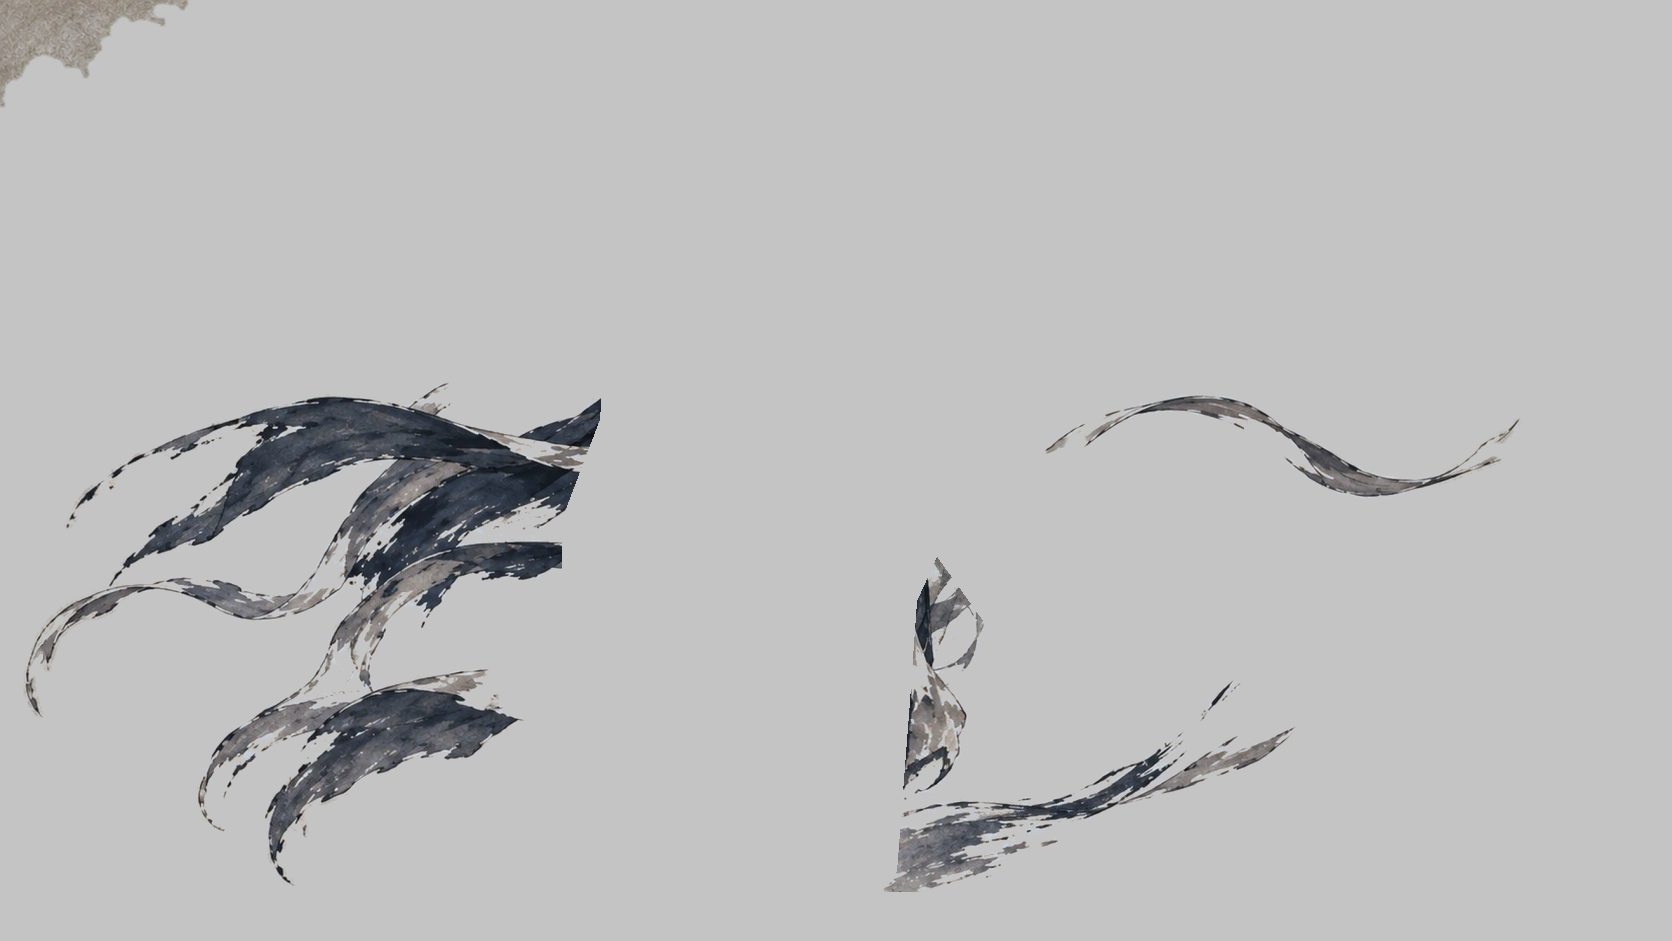
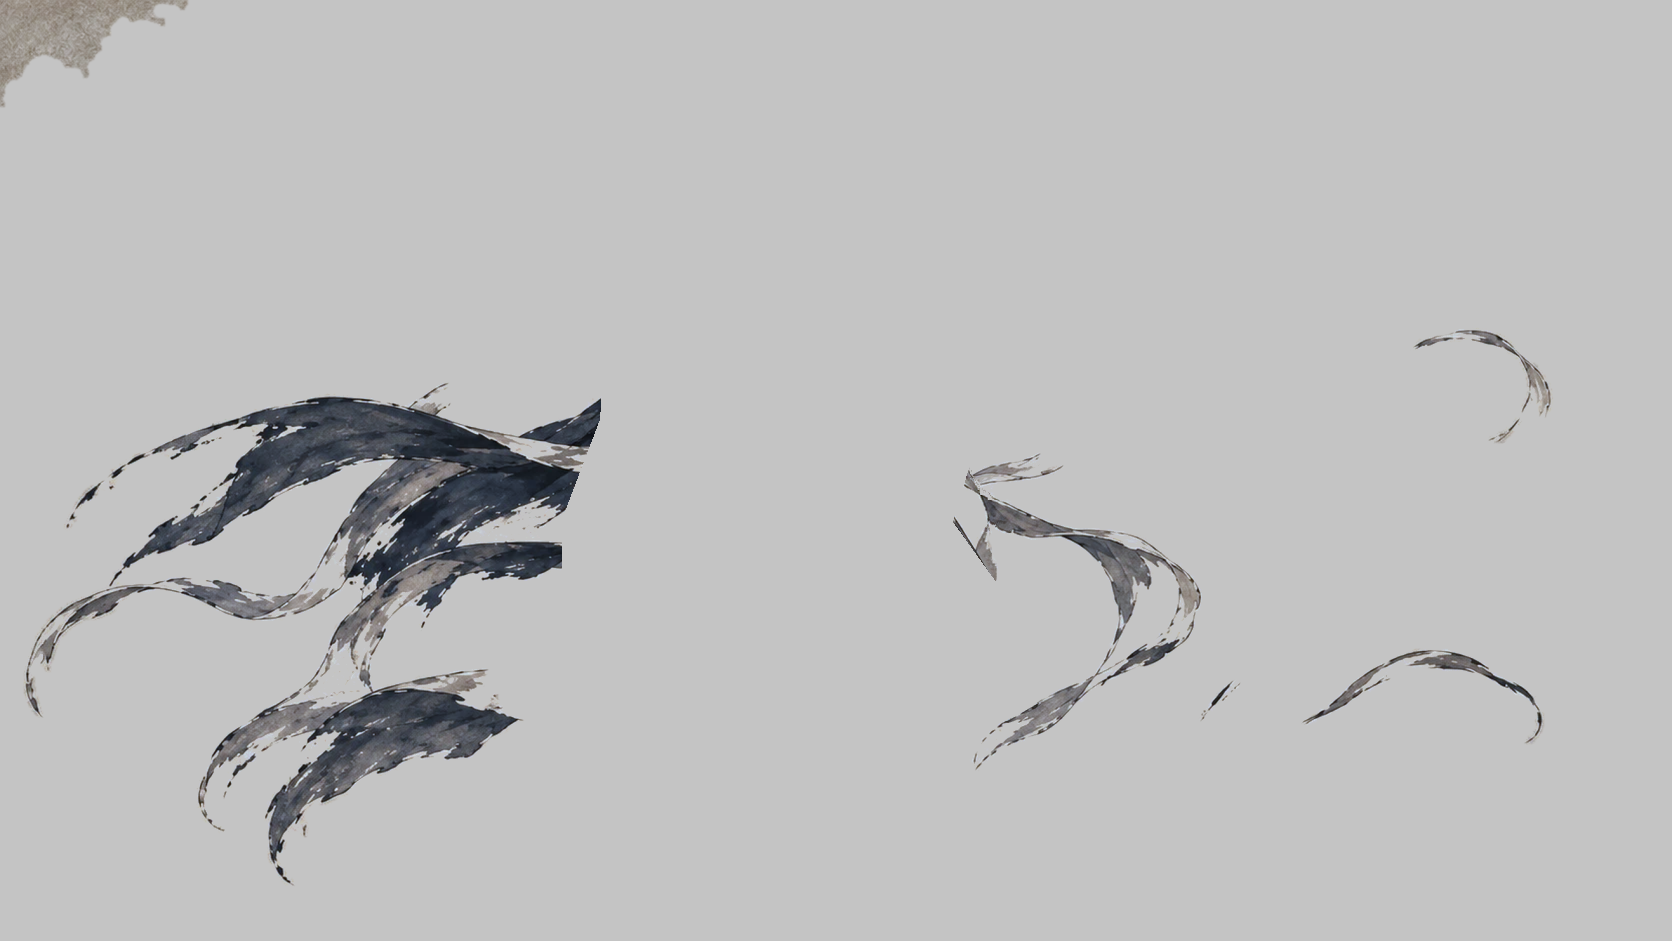
CAST PERFORMANCE TESTS v2: REPORT-v2, README; ground fade for the strands, tightened mask layer, base fixes
Claude-Session: https://claude.ai/code/session_0165shiXnXe7sWDC99zfjk7S

diff --git a/flagship-v2/cast-performance-test-v2/remotion/src/Untouchable2.tsx b/flagship-v2/cast-performance-test-v2/remotion/src/Untouchable2.tsx
@@ -30,7 +30,7 @@ const VS = `attribute vec2 p; varying vec2 uv; void main(){ uv = vec2(p.x*.5+.5,
 const FS = `precision highp float;
 uniform sampler2D plate, core, paperT, T0, T1, T2, F0, F1, F2;
 uniform vec4 SP[${N}]; uniform vec4 SQ[${N}];
-uniform vec2 size, nsize, moon, par; uniform float t, amp, reveal, wind, sweep;
+uniform vec2 size, nsize, moon, par; uniform float t, amp, reveal, wind, sweep, groundY;
 varying vec2 uv;
 float hash(vec2 p){ return fract(sin(dot(p, vec2(127.1, 311.7))) * 43758.5453); }
 float noise(vec2 p){ vec2 i = floor(p), f = fract(p); f = f*f*(3.-2.*f);
@@ -53,6 +53,7 @@ vec2 disp(vec4 f){
   float a = P.x * amp * pow(s, 1.6) * wind;
   vec2 d = nr * a * (0.6*w1 + 0.22*w2 + 0.42*sw) + tg * a * 0.16 * sin(TAU*0.5*P.y*tt + 1.3 + P.w);
   d += par * Q.y * s;                                     // a little depth against the camera
+  d *= clamp((groundY - uv.y*nsize.y) / 60., 0., 1.);    // nothing moves at the ground: motion fades out above it
   return d;                                              // native px
 }
 vec3 layer(sampler2D T, sampler2D F){
@@ -127,7 +128,7 @@ const StrandGL: React.FC<{ t: number; amp: number; reveal: number; wind: number;
     const U = (n: string) => gl.getUniformLocation(prog, n);
     gl.viewport(0, 0, CW, CH);
     gl.uniform2f(U('size'), CW, CH); gl.uniform2f(U('nsize'), NW, NH); gl.uniform2f(U('moon'), MOON[0], MOON[1]); gl.uniform2f(U('par'), par[0], par[1]);
-    gl.uniform1f(U('t'), t); gl.uniform1f(U('amp'), amp); gl.uniform1f(U('reveal'), reveal); gl.uniform1f(U('wind'), wind); gl.uniform1f(U('sweep'), sweep);
+    gl.uniform1f(U('t'), t); gl.uniform1f(U('amp'), amp); gl.uniform1f(U('reveal'), reveal); gl.uniform1f(U('wind'), wind); gl.uniform1f(U('sweep'), sweep); gl.uniform1f(U('groundY'), (meta as { ground_y?: number }).ground_y ?? 905);
     gl.drawArrays(gl.TRIANGLE_STRIP, 0, 4);
     gl.finish();
   });

diff --git a/flagship-v2/cast-performance-test-v2/tools/prep_un_strands.py b/flagship-v2/cast-performance-test-v2/tools/prep_un_strands.py
@@ -49,7 +49,8 @@ body = np.zeros((h, w), np.uint8); cv2.fillPoly(body, [BODY], 1)
 cv2.line(body, (832, 382), (1040, 672), 1, 24)                      # the sheathed sword
 static = body.copy()
 cv2.circle(static, (888, 158), 182, 1, -1)                          # the ink moon (sky, not cloth)
-static[896:] = 1                                                    # the ground
+# the ground is NOT a hard static boundary (a hem tatter crossing it would tear): strands may run into it, and the
+# shader fades every displacement to zero over the 60 px above the ground line (GROUND_Y)
 static_d = cv2.dilate(static, cv2.getStructuringElement(cv2.MORPH_ELLIPSE, (9, 9)))
 
 # ---------------------------------------------------------------- strands: ink components in the free region
@@ -177,7 +178,7 @@ inkF = np.clip(d_full / 22, 0, 1)
 a_core = np.clip(a_core * np.maximum(inkF, cv2.erode(bodyF, np.ones((31, 31), np.uint8)).astype(np.float32)), 0, 1)
 Image.fromarray(np.dstack([hyb_full.clip(0, 255).astype(np.uint8), (a_core * 255).astype(np.uint8)])).save(f'{OUT}/un-core.png')
 
-json.dump(dict(native=[w, h], canvas=[CW, CH], scale_native_per_canvas=SC, strands=strands, body=BODY.tolist()), open(f'{OUT}/un-strands.json', 'w'), indent=1)
+json.dump(dict(ground_y=905, native=[w, h], canvas=[CW, CH], scale_native_per_canvas=SC, strands=strands, body=BODY.tolist()), open(f'{OUT}/un-strands.json', 'w'), indent=1)
 
 # ---------------------------------------------------------------- visualisations
 rc = np.random.default_rng(1).uniform(40, 255, (len(strands) + 1, 3)); rc[0] = 0

diff --git a/flagship-v2/cast-performance-test-v2/tools/sheets.py b/flagship-v2/cast-performance-test-v2/tools/sheets.py
@@ -22,12 +22,14 @@ INK, PAPER = (22, 19, 15), (242, 236, 224)
 def font(s):
     try: return ImageFont.truetype('/usr/share/fonts/truetype/dejavu/DejaVuSans.ttf', s)
     except OSError: return ImageFont.load_default()
+import atexit, shutil
 _cache = {}
-def frames(mp4):
+def frames(mp4):   # every frame as a high-quality JPEG in a temp dir, removed at exit (full PNG dumps filled the disk)
     if mp4 in _cache: return _cache[mp4]
-    d = tempfile.mkdtemp(); subprocess.run(['ffmpeg', '-v', 'error', '-i', mp4, f'{d}/%04d.png'], check=True)
+    d = tempfile.mkdtemp(); atexit.register(shutil.rmtree, d, True)
+    subprocess.run(['ffmpeg', '-v', 'error', '-i', mp4, '-q:v', '2', f'{d}/%04d.jpg'], check=True)
     _cache[mp4] = (d, len(os.listdir(d))); return _cache[mp4]
-def fr(d, i): return Image.open(f'{d}/{i + 1:04d}.png').convert('RGB')
+def fr(d, i): return Image.open(f'{d}/{i + 1:04d}.jpg').convert('RGB')
 def label(im, text, s=22):
     im = im.copy(); dr = ImageDraw.Draw(im); dr.rectangle([0, 0, im.width, s + 12], fill=INK); dr.text((8, 5), text, fill=PAPER, font=font(s)); return im
 def grid(tiles, cols, tw, th, title, caps=None, pad=6, top=60, cap_h=24):

diff --git a/flagship-v2/cast-performance-test-v2/REPORT-v2.md b/flagship-v2/cast-performance-test-v2/REPORT-v2.md
@@ -1,0 +1,272 @@
+# Cast performance tests v2: Cold Blooded's mask, Untouchable's ribbons
+
+**Status: for owner review.** This is a new folder beside v1 (`../cast-performance-test/`, untouched). Nothing is
+integrated into the flagship and nothing is merged or published. This session can only push to
+`claude/nice-cerf-yokee2`; I checked it was current and clean before starting.
+
+## The short answer
+
+| | verdict |
+|---|---|
+| **Cold Blooded** | **The gesture now works.** The mask rises from his chest and covers his face in one continuous movement, with no double face, duplicated mask or floating hand. The method that achieves it is the *concealed* one (B). The registered masked cut (A) is clean but snaps. **No third painting is needed for the close-up gesture.** One is needed only if you want the lift seen in a full-figure wide (§1.5) |
+| **Untouchable** | **Substantially better than v1.** She's built from the sharp portrait figure on the approved landscape. The 17 major ribbons, hair ends and hem tatters are separated layers that each move on their own wind, behind a body that stays still. The v1 grey edge smudges are gone. **Flagship-worthy.** What still separates this from "impossible grace" is listed in §2.6 |
+
+---
+
+## 1. Cold Blooded
+
+### 1.1 The two paintings (`cold-blooded-v2-pose-registration.jpg`)
+
+B (mask raised) registers onto A (mask lowered) with a similarity transform: B is drawn **3% larger** (scale
+0.969), rotated −0.47°, with 430 SIFT inliers and a 1.30 px median residual. After registration:
+
+| region | flow median / p90 (px) | |
+|---|---|---|
+| fur collar, chest cords and medallion, sash, lower robe, left hand and sleeve | 1.6–3.1 / 4–15 | **the same drawing**, re-rendered texture |
+| face and head | 5.7 / 60 | the head is **bowed further** in B (chin lower, toward the chest) |
+| hair, bun, pin | 10.5 / 18 | the hair is redrawn around the bow |
+| mask, hand, forearm | 22–61 / 110–140 | **the gesture**: the mask centre travels 320 px up and 45 px left; the forearm translates almost rigidly |
+| right sleeve | 40 / 98 | B's sleeve falls back to the elbow and hangs from a raised arm; A's hangs from a lowered forearm |
+
+The change region is **37% of the figure** (Last Legend's was 27%). Costume continuity is good: the cords,
+medallion, sash pattern, fur and bamboo prints match. The face is the same man, with the same scar, but not the same
+head angle.
+
+### 1.2 What I tried, and what you'd see at speed (`cold-blooded-v2-method-ab.jpg`)
+
+**Method A: registered layered transition (`cold-blooded-v2-method-a-layered.mp4`).** The whole figure. A's own
+mask, hand and wrist rise 110 px as one rigid piece. Then the change region cuts to B on smear frames.
+- *Result:* clean, with no ghosting and no double mask, because one painting is visible per frame inside the region.
+- *But* the last 210 px of the travel happens in one frame. At speed it reads as **a snap**: the mask jumps to the
+  face. It's exactly the limitation predicted for two keys, now demonstrated.
+- Pushing the rigid rise further isn't possible. A's forearm ends inside its sleeve, so lifting it more than ~110 px
+  uncovers a forearm that was never painted (the "floating hand").
+
+**Method B: concealed (chosen; `cold-blooded-v2-cinematic.mp4`, `cold-blooded-v2-trailer.mp4`).**
+1. Medium on his face and the lowered mask. The loss reaches the world, then him (grey), and he is still.
+2. The camera tilts up to his face as **his own hand starts to rise**: A's mask, hand and wrist as one rigid piece.
+   Its wrist end is below the frame.
+3. **Mid-rise the rising hand becomes B's** (mask, hand and forearm as one piece, cut from B), at exactly the same
+   mask centre. Both carry motion blur proportional to their speed, so the swap frame looks like every other frame.
+   At that moment A's chest below the collar gives way to B's (consistent with a raised arm). It's at the bottom
+   edge of the frame, and the two chests are the same drawing to ~2–3 px.
+4. B's mask keeps rising, decelerating, **over A's face**. His expression disappears behind it: first the eye, then
+   the cheek. This is the emotional centre, and it's real motion of the painted mask over the painted face.
+5. **The head settles into the mask**: a cut to all-B under a 0.6% rigid sink and a single light smear frame. Because
+   B's head is bowed a little lower, this reads as him lowering his face into the mask, not as an edit.
+6. The camera eases back to the whole painting while the loss grey deepens.
+
+Timing (cinematic, 6.2 s):
+
+| time | beat |
+|---|---|
+| 0–2.05 s | pause, outcome registers |
+| 2.05–3.5 s | the rise (1.45 s, deliberate, slow in and slow out) |
+| 3.5–3.7 s | the completed gesture held |
+| 3.7 s | the settle |
+| 3.7–6.2 s | the wash, pulling back to the whole painting |
+
+The trailer is 7 beats (2.39 s): the rise takes 0.9 s, the grey 敗 stamps on beat 5, and `−80 USDC` is marked
+`PROVISIONAL`.
+
+**Why B is better at normal speed:** the mask is never still in a way that exposes the swap. It travels one
+continuous path, at one speed profile, from chest to face. A snaps.
+
+### 1.3 Quality control (`cold-blooded-v2-transition-frames.jpg`: every 3rd frame of the lift, every frame of the swap and the settle)
+
+- **No double face.** An earlier pass carried a sliver of B's chin under the moving mask (f156–158). I tightened the
+  layer to the mask's lower edge; it's gone in the final render.
+- **No duplicated mask.** A's mask and hand are removed from every base that's visible while B's mask moves.
+- **No floating hand.** The rising forearm always runs into the sleeve or off the bottom of the frame. Both moving
+  layers fade into identical pixels in the base, so there is no cut edge.
+- **No sleeve distortion.** Nothing is warped. Every move is a rigid translation plus at most 5° of rotation of the
+  mask/hand piece.
+- **What a careful viewer could notice:**
+  1. The mask turns slightly (5°) as it rises. This covers the angle difference between the two paintings' masks.
+  2. Through the swap (f154–160) the mask is motion-blurred. It's consistent with its speed, but softer than the
+     sharp hold either side.
+  3. In the close-up the paintings are shown at ~1.7× upscale (they arrived at 1086×1448), so the face hold is soft
+     compared with the wide.
+  4. The base below the collar changes from A's chest to B's chest at the swap. The two drawings agree to ~2–3 px
+     there, but the fold texture is re-rendered.
+
+### 1.4 Recommendation
+
+Use **method B**, cinematic or trailer. **It makes a small gesture enormous**, because the camera is close enough
+that the mask covering his face *is* the shot.
+
+### 1.5 Is a third illustration necessary?
+
+**Not for this shot.** The concealed method gives a continuous rise without it, and I've demonstrated that rather
+than assumed it.
+
+A third painting is needed **only for a wide shot where the whole arm is seen rising**. Method A shows why: two keys
+in a wide either snap (210 px in one frame) or expose an unpainted forearm. If you want that wide, the brief is:
+- **"mask at the chin"**: the same canvas and body as both paintings;
+- the forearm raised halfway, hand at the collar, the mask covering the mouth and chin;
+- eyes still visible, looking down; the sleeve sliding toward the elbow.
+
+The full-resolution files would also sharpen the close-up.
+
+---
+
+## 2. Untouchable
+
+### 2.1 The new landscape vs the approved portrait (`untouchable-v2-source-comparison.jpg`)
+
+The landscape is **not** an extension of the portrait. It's a regeneration:
+- **Scale:** the figure is drawn at **0.635×** the portrait's scale (rotation −0.67°, 347 SIFT inliers, 1.37 px
+  median).
+- **Where they agree** (registered at portrait scale): face and blindfold 2.6 px median, torso 2.6, hands and hilt
+  2.3, sword 4.5. **The pose, costume and face are the same character.**
+- **Where they differ:**
+  - the skirt from the knees down (6.5 px, rising);
+  - the feet (44 px);
+  - the moon (30 px, it's larger and shifted);
+  - **every ribbon and hair end** (46–93 px): completely redrawn, and longer, completed and fully inside the canvas.
+- **Resolution:** the landscape arrived at 1672×941. Its face is ~90 px wide. At 1080p in a 1.5× push that's a
+  **1.8× upscale: visibly soft**. The portrait's face is 1.6× more detailed.
+
+### 2.2 The choice: a hybrid, non-destructive
+
+I didn't sacrifice the face for the canvas, so the shot uses both paintings:
+- **The portrait** wherever the two agree: head to knees, sword and hands. That's 81% of the body, chosen per pixel
+  by measured agreement (low flow), never its paper or its moon.
+- **The landscape** for everything else: the ribbons, the legs and feet, the moon, and all the paper.
+- **The seam:** in an ~80 px band around the portrait region, the landscape is warped onto the portrait's geometry
+  (by the measured flow, ≤28 px). Strokes continue across it, and the 1:1 checks show no doubled strokes.
+- Both originals are untouched in `assets/source/`. The working canvas is the landscape at portrait scale
+  (2634×1483).
+
+### 2.3 Ribbon separation (`untouchable-v2-layer-separation.jpg`)
+
+- **17 strands**, each its own layer: the long ribbons left and right, the hair ends, the hem tatters, and small
+  ribbon fragments.
+- **How they were found:** connected ink, grouped by a wide closing so that a ribbon's cream stretches keep its
+  pieces together. The paper's own dark mottling is excluded, so it doesn't drift.
+- **Ink as transmittance.** Each layer stores ink as transmittance, so at rest the composite is the painting and
+  moved ink multiplies like ink.
+- **The paper behind** is the original wherever the ink was faint, and is inpainted from the surrounding paper where
+  real ink lifted off. Nothing pale or smudged shows when a ribbon moves.
+- **Roots and tips.** Each strand has a root (where it meets her body), a geodesic distance along itself (0 at the
+  root, 1 at the tip), and a local tangent.
+- **Groups.** The strands are split into three interleaved groups, so neighbours never share a motion field and
+  never clip each other.
+- **No ribbon passes through her.** Her body is a separate occluder drawn last, so no strand can cross the torso.
+  Strands that emerge from behind her stay behind her.
+
+### 2.4 The motion (`untouchable-v2-motion-map.jpg`, `untouchable-v1-vs-v2-ribbons.jpg`)
+
+Every strand bends with a wave travelling from root to tip, plus a slower second harmonic and a slow swing:
+- **Perpendicular to its own local direction**, so curved ribbons ripple along their curve.
+- **Growing as s^1.6:** still at the root, largest at the free end.
+- **Its own frequency, wavelength and phases** (long ribbons slower). A gust crosses the frame left to right, so
+  strands react in sequence, never in sync.
+- **A little parallax** against the camera, per strand depth.
+- **Amplitudes** 10–27 landscape px at the tips (≈12–30 screen px). The world's clock stops at the win.
+
+Measured on a locked camera over 1 s (temporal deviation; the paper grain alone is ≈2):
+
+| region | mean | p99 |
+|---|---|---|
+| face and blindfold | 1.99 | 2.9 |
+| torso | 1.97 | 3.0 |
+| hands on the hilt | 1.96 | 4.3 |
+| moon | 2.41 | 3.5 |
+| feet and ground | 1.91 | 3.0 |
+| left ribbons | 15.9 | 65 |
+| right ribbons | 7.3 | 52 |
+
+**She is pixel-still; only the strands move.**
+
+**v1 vs v2:**
+- v1 moved one displacement field over the portrait, with the ribbons ending in grey smoke where the portrait's
+  canvas stopped.
+- v2's ribbons are complete strokes from the landscape, move independently and travel further.
+
+### 2.5 The performance (`untouchable-v2-cinematic.mp4` 6.8 s, `untouchable-v2-trailer.mp4` 2.05 s)
+
+Kept from v1:
+- the ink bloom from the moon outward;
+- her absolute stillness;
+- the wind rising into a **freeze at the win** (0.55 s, a true dropout of every stem), with the amount rising in the
+  silence;
+- the slow push to the blindfold.
+
+New in v2:
+- a slow warm light sweep across the paper as the bloom completes;
+- a second, smaller gust earlier, so the big one has something to grow from;
+- per-strand parallax.
+
+**The payout is a prop** (`payout: { show, handle, amount, provisional }`). It is shown with a
+`PROVISIONAL · FIGURES TO BE VERIFIED` line and is not a final figure.
+
+`untouchable-v2-rigid-ab.mp4` is the same shot with the strands held still, for judging what the motion adds.
+
+### 2.6 Remaining limitations, candidly
+
+1. **Strands, not cloth simulation.** Each strand bends as a whole: perpendicular waves and swing, no folding, no
+   twist, no change of silhouette. It reads as ink breathing on a wind. A ribbon flipping over itself would need
+   painted layers per strand: a front and a back.
+2. **Ribbons painted across her body don't move**: the sash, the robe panels and the hem in front of her legs. They're
+   part of the static figure. So are the hair strands that overlap her head.
+3. **Large hem tatters are single strands.** Where the painting merges several tatters into one ink mass, they move
+   as one piece.
+4. **The ground fade.** Within 60 px of the ground, motion fades to zero. This stops the hem tearing where it meets
+   the ground, which an earlier pass did.
+5. **Seam band.** The portrait-to-landscape seam band is invisible at 1:1 in the checks. Over the knees, the
+   landscape's softer strokes meet the portrait's sharper ones; at 1080p the sharpness difference shows only on
+   close inspection.
+6. **Resolution.** Everything outside the portrait core is the landscape at 1.57× its pixel size: soft ribbons in
+   the close-up. The full-resolution landscape would fix this.
+7. **Dependencies.** No new ones: one WebGL pass with 9 textures, and an offline prep (OpenCV, scikit-image).
+
+**Asks that would take it further:**
+- the landscape at full resolution (≥3840 px wide);
+- optionally, **the free ribbons delivered as separate transparent layers** from the generator. That would give
+  clean edges where ribbons overlap each other, which my separation has to treat as one strand.
+
+---
+
+## 3. Deliverables (`deliverables/`)
+
+| file | what |
+|---|---|
+| `cold-blooded-v2-cinematic.mp4` / `-trailer.mp4` | method B, chosen (6.2 s / 2.39 s) |
+| `cold-blooded-v2-method-a-layered.mp4` | method A, for the A/B |
+| `cold-blooded-v2-method-ab.jpg` | A vs B at the same moments |
+| `cold-blooded-v2-pose-registration.jpg` | registration, change region, the gesture path, numbers |
+| `cold-blooded-v2-transition-frames.jpg` | every 3rd frame of the lift, every frame of the swap and the settle |
+| `cold-blooded-v2-layers.jpg` | the layers |
+| `untouchable-v2-cinematic.mp4` / `-trailer.mp4` | 6.8 s / 2.05 s |
+| `untouchable-v2-rigid-ab.mp4` | strands held still |
+| `untouchable-v1-vs-v2-ribbons.jpg` | v1 vs v2 at the same moments, and the left ribbons at 1:1 |
+| `untouchable-v2-layer-separation.jpg`, `untouchable-v2-motion-map.jpg`, `untouchable-v2-source-comparison.jpg` | separation, motion proof, portrait vs landscape |
+| `*-contact.jpg` | timed contact sheets for every cut |
+
+Audio: separate `music`, `sfx` and `mix` stems per cut in `audio/out/`. The music is the flagship's track, untouched
+excerpts on its bar grid; the SFX are synthesised placeholders. **Unauditioned.**
+
+QC method: I can't play video at normal speed. I inspected:
+- dense frame sheets of the encoded renders;
+- every frame through Cold Blooded's swap and settle;
+- 1:1 crops of the ribbon roots, tips and seams;
+- a locked-camera temporal-deviation map.
+
+I fixed three defects this way (B's chin sliver under the mask, a paper gap under the sleeve, the hem tearing at the
+ground) before the final renders.
+
+## 4. Rebuild
+
+```bash
+cd flagship-v2/cast-performance-test-v2
+python3 tools/register_cb.py && python3 tools/register_un.py
+python3 ../film/tools/matte.py assets/source/cold-blooded-mask-lowered.webp assets/derived/cb-A-matte.png --fill-holes
+python3 tools/prep_cb.py
+python3 tools/prep_un_hybrid.py && python3 tools/prep_un_strands.py
+cd remotion && npm ci && tools/sync-assets.sh && node --experimental-strip-types tools/timing.mts && python3 ../audio/build.py
+tools/render.sh ColdBlooded2-Concealed cb2-concealed ../deliverables/cold-blooded-v2-cinematic.mp4
+#  ColdBlooded2-Trailer cb2-concealed-trailer · ColdBlooded2-Layered cb2-layered · Untouchable2-Cinematic un2-cinematic
+#  Untouchable2-Trailer un2-trailer · Untouchable2-Rigid un2-rigid
+cd .. && python3 tools/sheets.py <locked-camera Untouchable frames>
+```

diff --git a/flagship-v2/cast-performance-test-v2/README.md b/flagship-v2/cast-performance-test-v2/README.md
@@ -1,0 +1,23 @@
+# Cast performance tests v2: Cold Blooded's mask gesture, Untouchable's separated ribbons
+
+Two new approved paintings, tested against their v1 counterparts. **Findings, choices and limitations are in
+`REPORT-v2.md`.** Status: for owner review. Not integrated into the flagship, not merged.
+
+Isolation: a new folder. v1 (`../cast-performance-test/`), the Last Legend test, the pullback, the Duels short, the
+animatics and the kit are untouched. The flagship's house libraries and `yochi-2p5d` are imported read-only.
+
+```
+assets/source/       cold-blooded-mask-lowered.webp (new), cold-blooded-mask-raised.webp (v1's approved copy),
+                     untouchable-landscape.webp (new, 1672x941), untouchable-portrait.webp (v1's approved copy)
+assets/derived/      registrations (*-registration.json, reg/), mattes, layers/ (what the shots read)
+tools/               register_cb.py, register_un.py, prep_cb.py, prep_un_hybrid.py, prep_un_strands.py, sheets.py
+audio/build.py       separate music / sfx / mix stems per cut (audio/out/)
+remotion/src/        ColdBlooded2.tsx, Untouchable2.tsx (WebGL strand pass), common.tsx, timing.ts (every timing)
+deliverables/        renders and sheets (table in REPORT-v2.md section 3)
+```
+
+Compositions: `ColdBlooded2-Concealed`, `ColdBlooded2-Trailer`, `ColdBlooded2-Layered`, `Untouchable2-Cinematic`,
+`Untouchable2-Trailer`, `Untouchable2-Rigid`. Props: `diag: true` (a readout per frame); Untouchable's
+`payout: { show, handle, amount, provisional }` (provisional by default).
+
+Rebuild: `REPORT-v2.md` section 4. Kanji: 敗 (Cold Blooded trailer only, allowed list).
